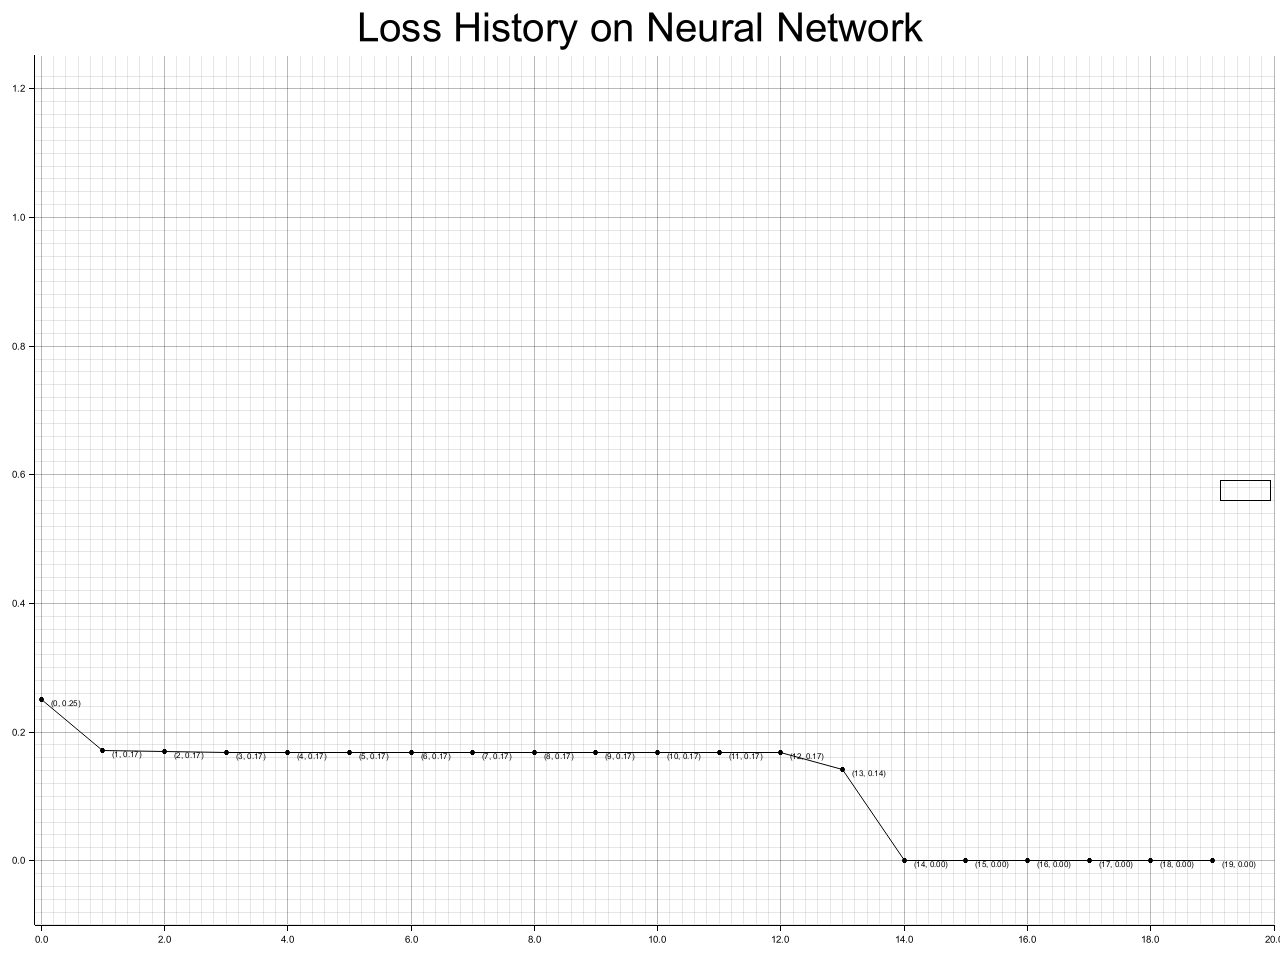
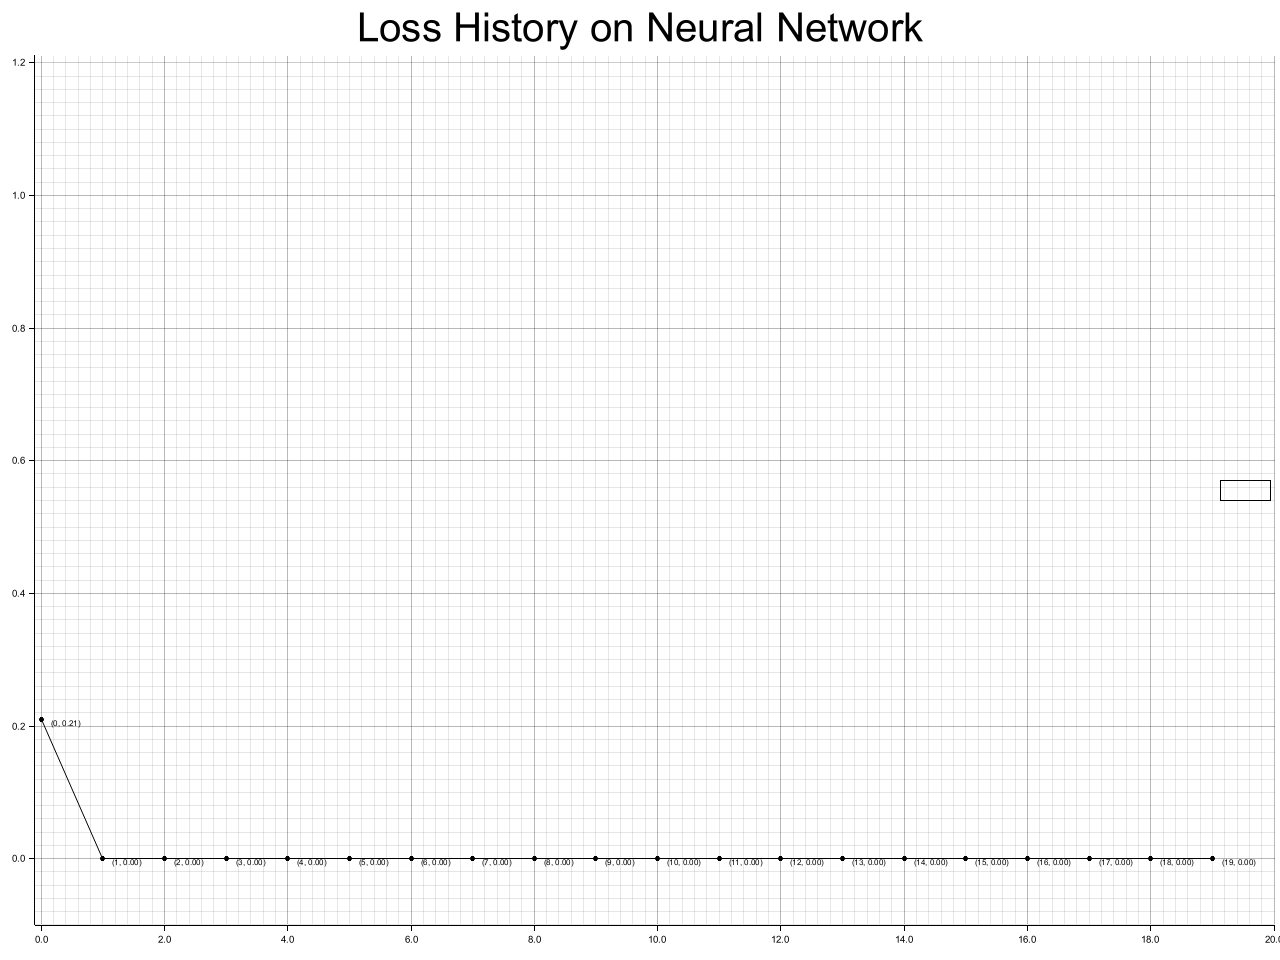
Moved gradient calculation

Changed region(s): [[0.0, 0.0938, 1.0, 0.5], [0.0, 0.5625, 1.0, 0.9375]]

diff --git a/src/network/layer/dense.rs b/src/network/layer/dense.rs
@@ -64,7 +64,7 @@ impl Layer for Dense{
     ///Does Back Propegation according to simple Dense network rules
     ///Finds the error of the previous layer and returns what the updated weights and biases should
     ///be in that layer, updates the gradients and errors to move backwards once
-    fn backward(&mut self, gradients: Box<dyn Input>, errors: Box<dyn Input>, data: Box<dyn Input>) -> (Box<dyn Input>, Box<dyn Input>) {
+    fn backward(&mut self, gradients: Box<dyn Input>, errors: Box<dyn Input>, data: Box<dyn Input>) -> Box<dyn Input> {
         let mut gradients_mat = Matrix::from(gradients.to_param_2d());
         let mut errors_mat = Matrix::from(errors.to_param_2d());
         let mut data_mat = Matrix::from(data.to_param_2d());
@@ -81,9 +81,13 @@ impl Layer for Dense{
 
         //println!("{}x{} {}x{}", self.weights.rows, self.weights.columns, data.to_param_2d()[0].len(), data.to_param_2d().len());
         self.biases = self.biases.clone() + &gradients_mat.clone();
-        self.weights = self.weights.clone() + &(gradients_mat.clone() * (&data_mat.clone().transpose()));
+        self.weights = self.weights.clone() + &(gradients_mat.clone() * (&data_mat.transpose()));
 
-        (Box::new(data_mat.map(self.activation_fn.get_function().derivative)), Box::new(errors_mat))
+        Box::new(errors_mat)
+    }
+
+    fn update_gradient(&self) -> Box<dyn Input> {
+        Box::new(self.data.clone().map(self.activation_fn.get_function().derivative))
     }
 
     /*fn backward(&mut self, inputs: &Matrix, gradients: &Matrix, errors: &Matrix, layer_prev: &Matrix, layer_prev_bias: &Matrix) -> (Matrix, Matrix, Matrix, Matrix){

diff --git a/src/network/layer/layers.rs b/src/network/layer/layers.rs
@@ -8,7 +8,7 @@ pub trait Layer{
     fn forward(&mut self, inputs: &Box<dyn Input>) -> Box<dyn Input> {
         Box::new(Matrix::new_random(0,0))
     }
-    fn backward(&mut self, parsed: Box<dyn Input>, errors: Box<dyn Input>, data: Box<dyn Input>) -> (Box<dyn Input>, Box<dyn Input>); 
+    fn backward(&mut self, parsed: Box<dyn Input>, errors: Box<dyn Input>, data: Box<dyn Input>) -> Box<dyn Input>; 
     fn get_cols(&self) -> usize {0}
     fn get_rows(&self) -> usize {0}
     fn get_weights(&self) -> Matrix;
@@ -21,6 +21,7 @@ pub trait Layer{
     }
     fn shape(&self) -> (usize,usize,usize);
     fn get_loss(&self) -> f32;
+    fn update_gradient(&self) -> Box<dyn Input>;
 }
 
 #[derive(Serialize, Deserialize, Clone)]

diff --git a/src/main.rs b/src/main.rs
@@ -11,7 +11,7 @@ fn main() -> Result<(), Box<dyn Error>> {
 
     new_net.add_layer(LayerTypes::DENSE(2, Activations::SIGMOID, 0.1));
     new_net.add_layer(LayerTypes::DENSE(3, Activations::SIGMOID, 0.1));
-    new_net.add_layer(LayerTypes::DENSE(4, Activations::SIGMOID, 0.1));
+    new_net.add_layer(LayerTypes::DENSE(4, Activations::TANH, 0.1));
     new_net.add_layer(LayerTypes::DENSE(2, Activations::SIGMOID, 0.1));
     new_net.add_layer(LayerTypes::DENSE(3, Activations::SIGMOID, 0.1));
     new_net.add_layer(LayerTypes::DENSE(1, Activations::SIGMOID, 0.1));

diff --git a/src/network/network.rs b/src/network/network.rs
@@ -132,7 +132,8 @@ impl Network{
 
         for i in (0..self.layers.len() - 1).rev() {
             let data_box: Box<dyn Input> = self.layers[i].get_data();
-            (gradients, errors) = self.layers[i+1].backward(gradients, errors, data_box);
+            errors = self.layers[i+1].backward(gradients, errors, data_box);
+            gradients = self.layers[i].update_gradient()
         }
     }
     ///Trains a neural network by iteratively feeding forward a series of inputs and then doing
